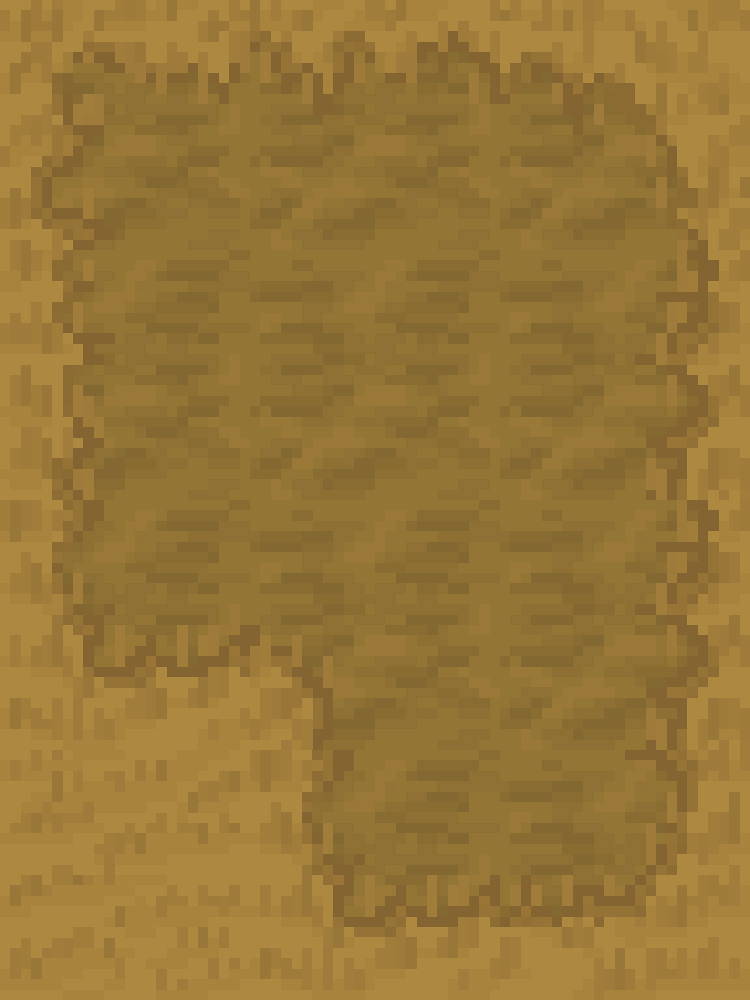
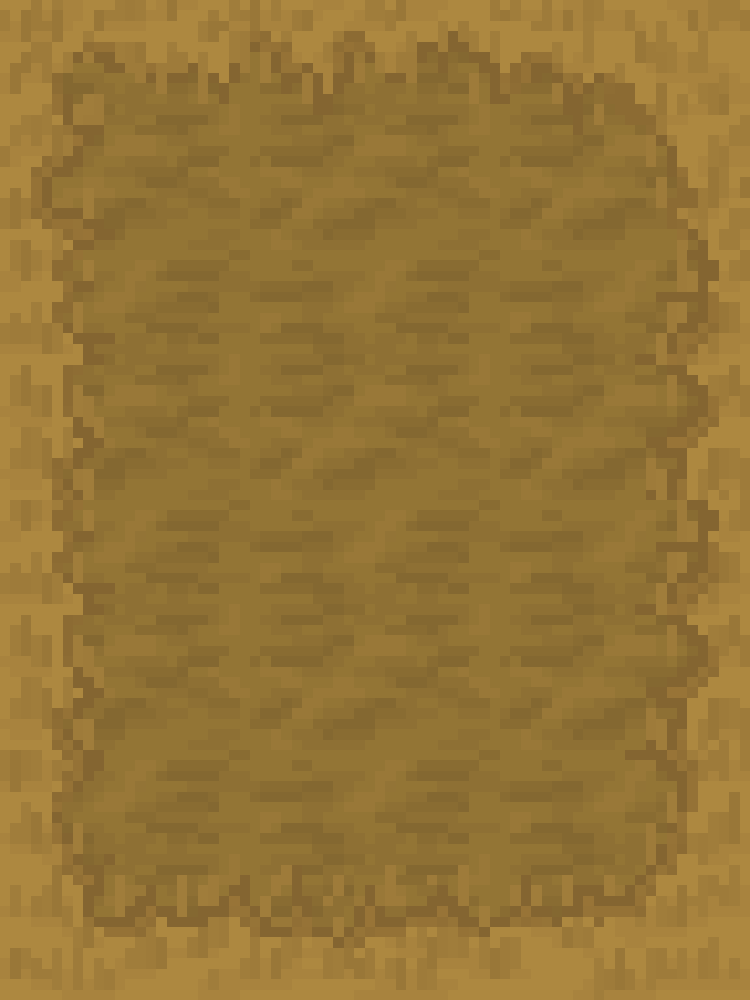
Added a few more floor textures, and moved the script to the correct place.

diff --git a/Contract1V2.py b/Contract1V2.py
@@ -42,8 +42,8 @@ while running:  # Main game loop
         elif event.type == KEYUP and event.key == K_f:  # Press f for fire aligned room
             screen.blit(overlays[3], (0, 0))
         elif event.type == KEYUP and event.key == K_n:  # Press n for new room
-            # floorImage = pygame.image.load(image_path[random.randint(0, 14)])
-            floorImage = pygame.image.load(image_path[0])
+            floorImage = pygame.image.load(image_path[random.randint(0, 4)])
+            # floorImage = pygame.image.load(image_path[0])
             screen.blit(floorImage, (0, 0))
 
     pygame.display.update()
